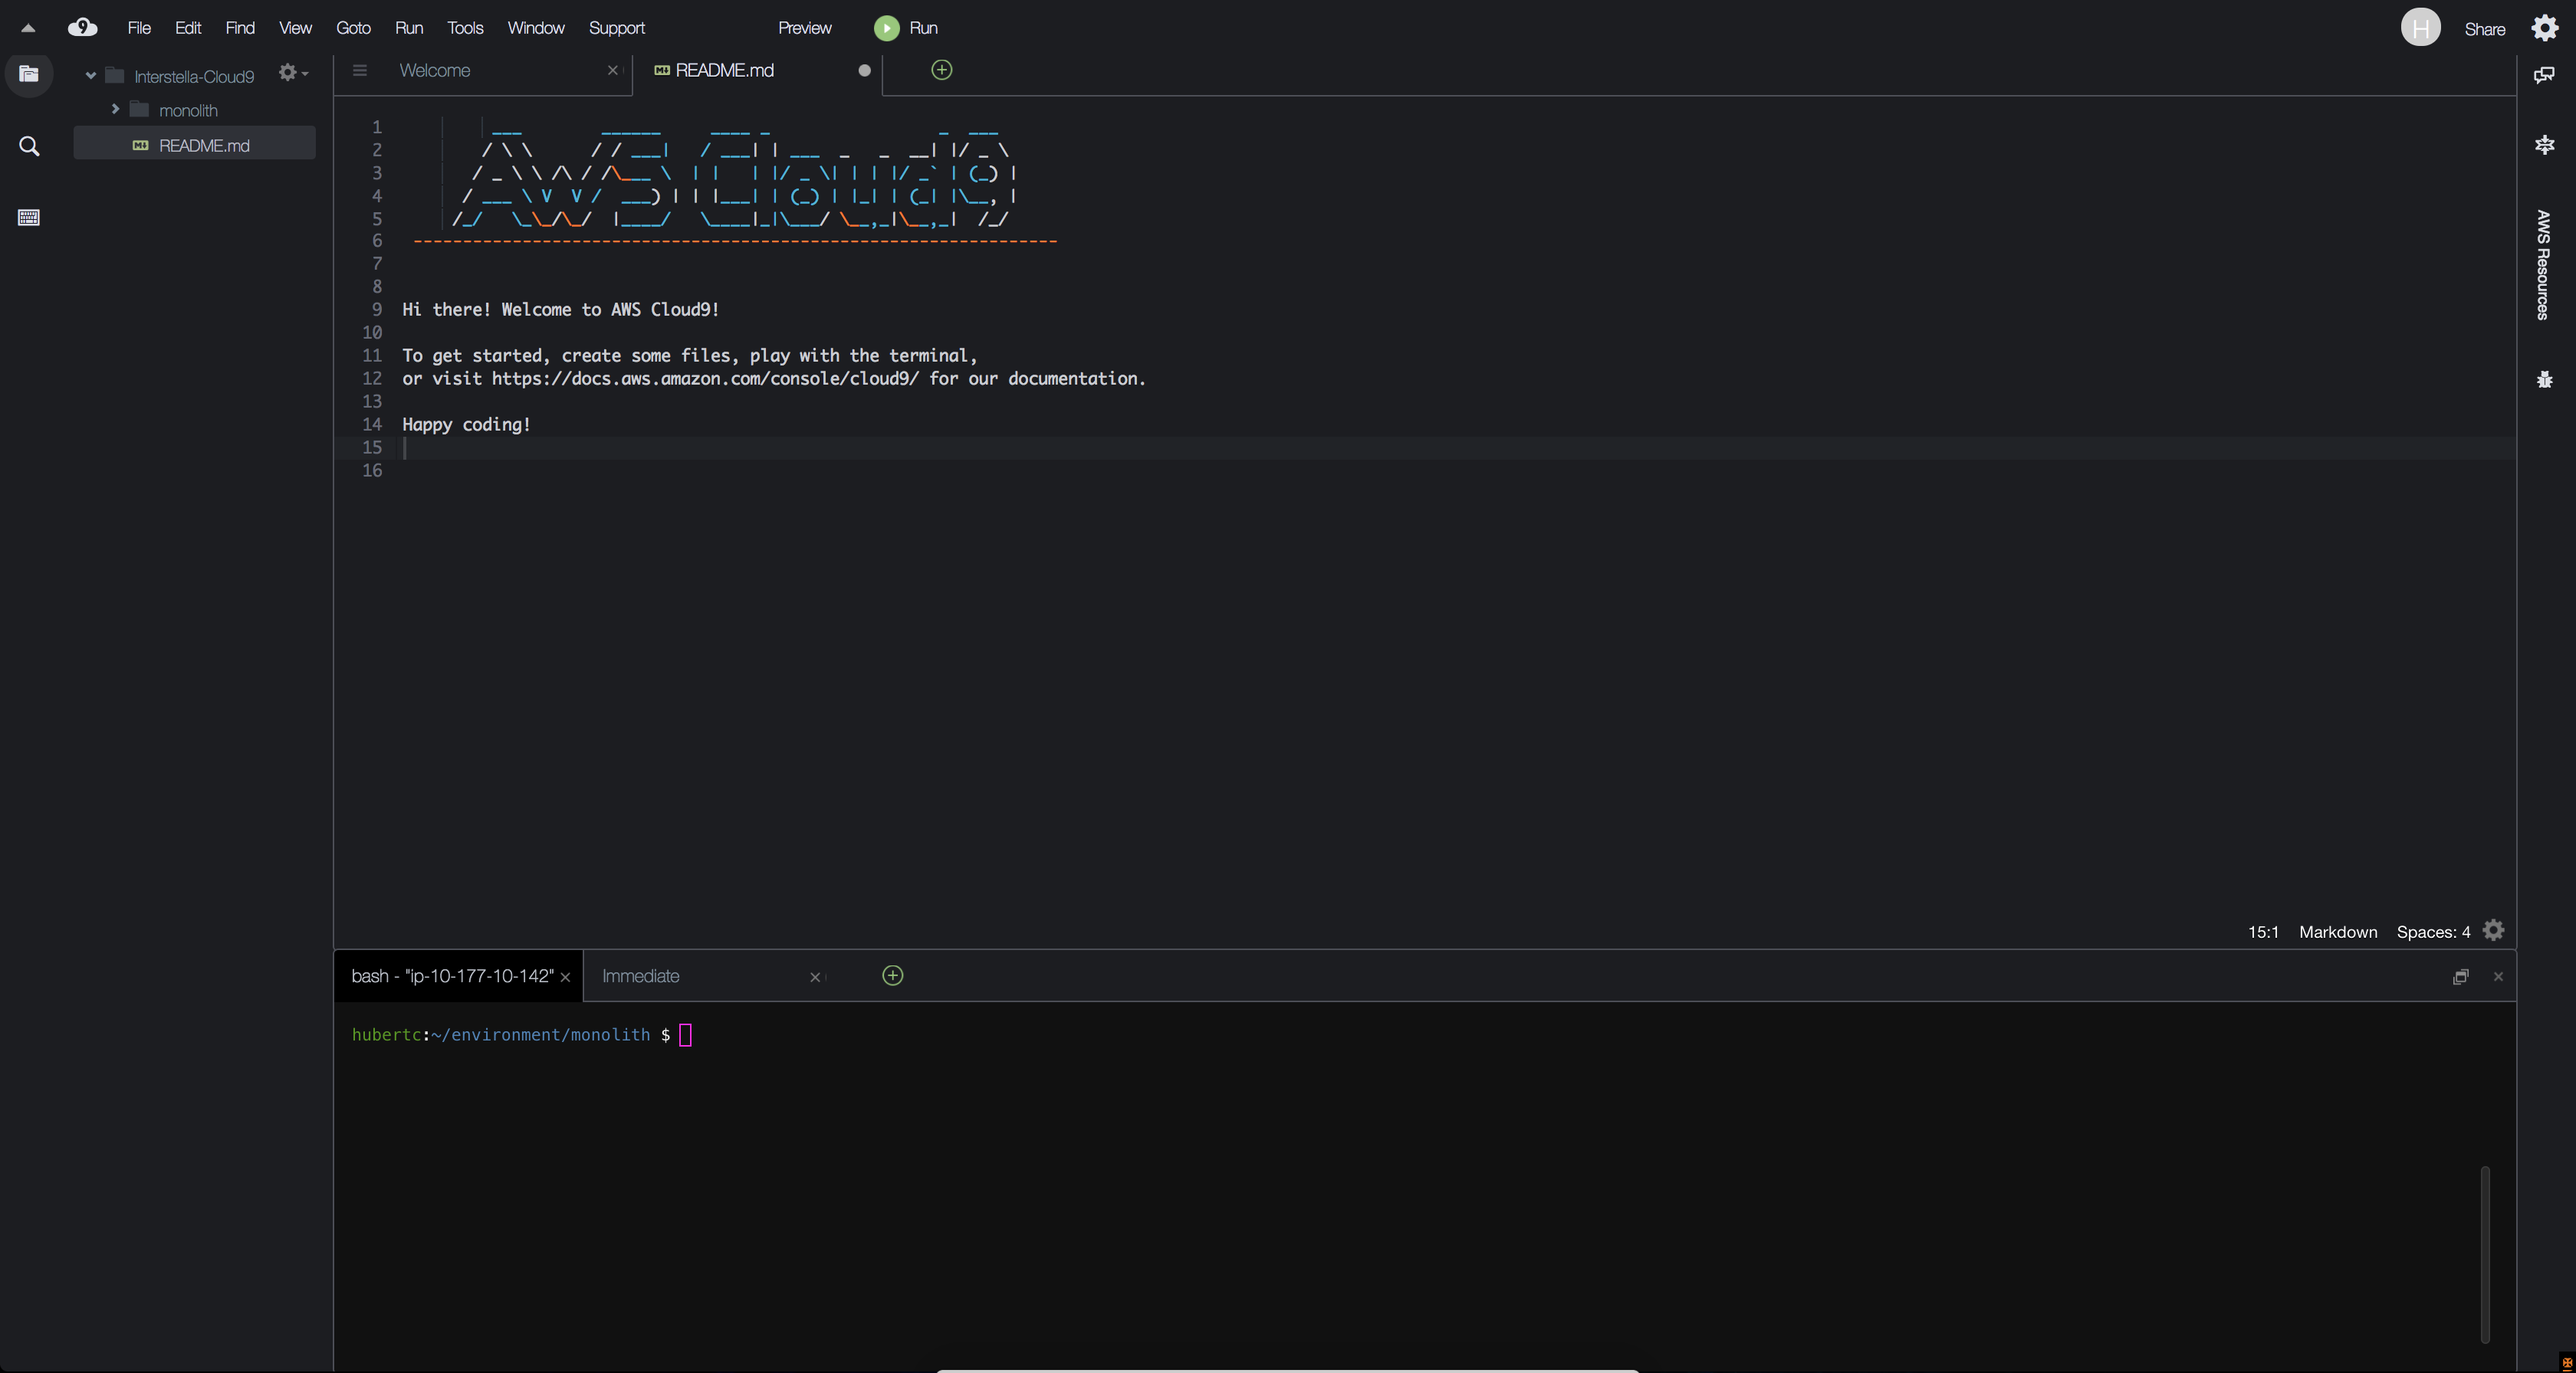
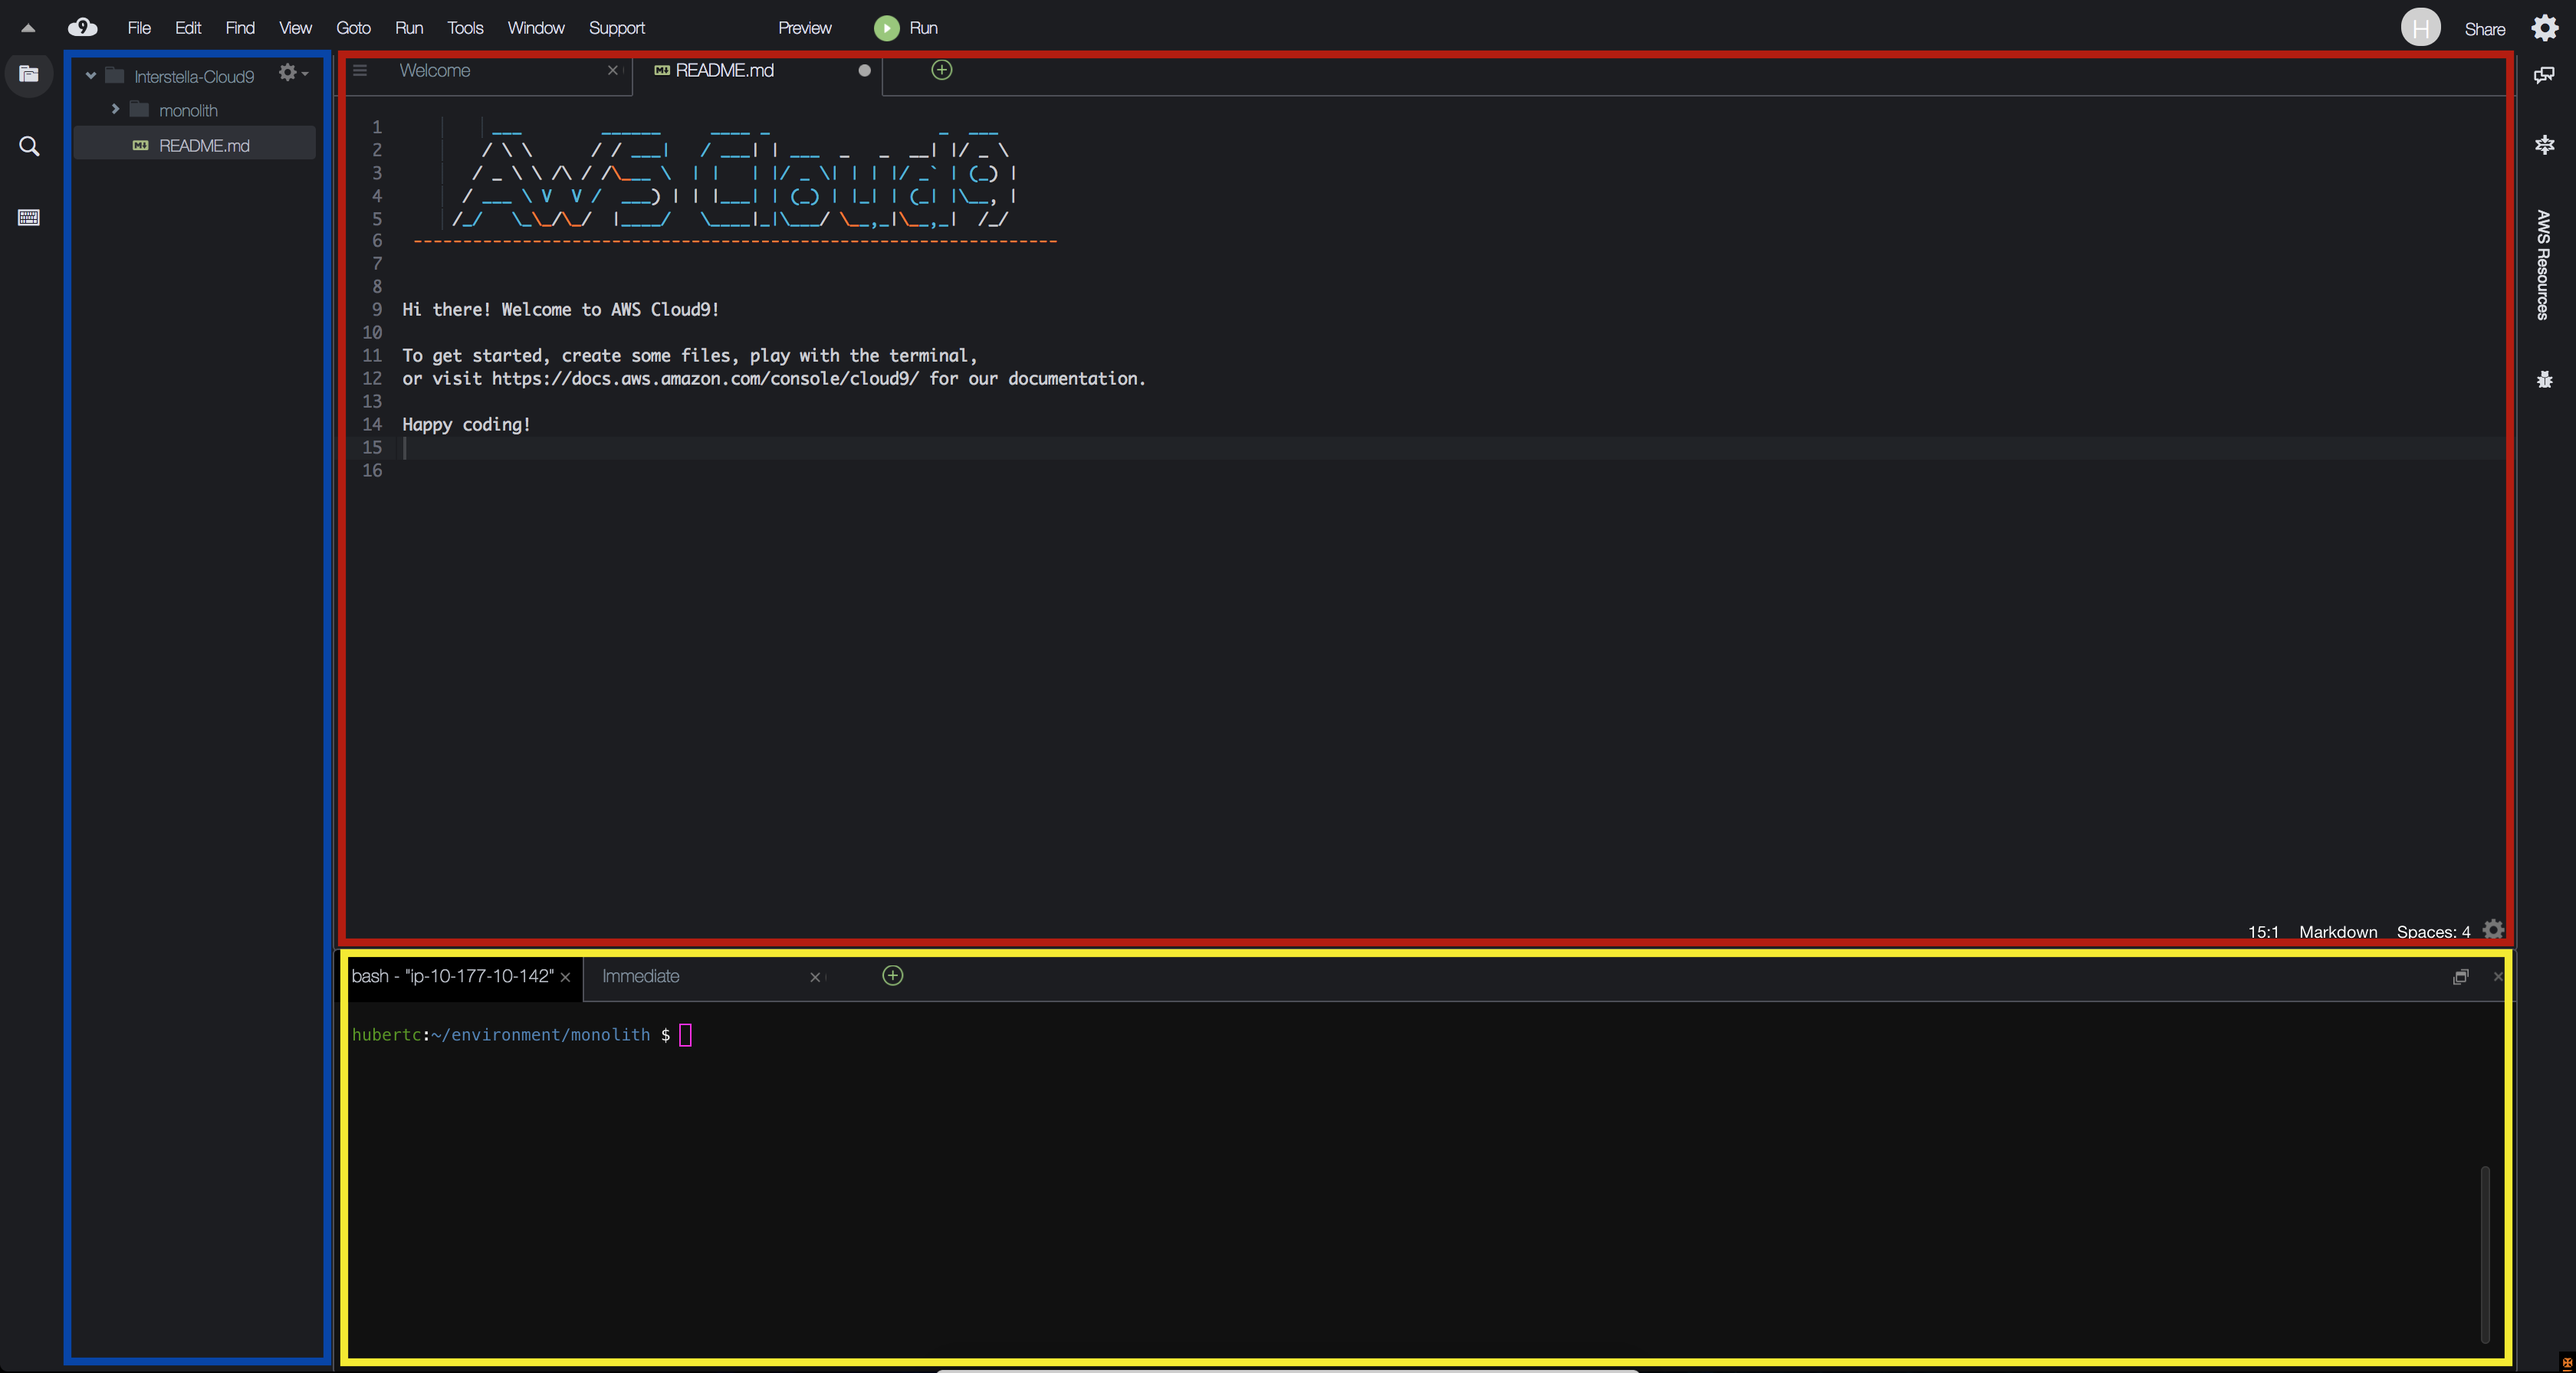
updating images for c9

Changed region(s): [[0.0, 0.0312, 1.0, 1.0]]

diff --git a/workshop-microservices/readme.md b/workshop-microservices/readme.md
@@ -155,13 +155,11 @@ Go to the Cloud9 Dashboard in the Management Console and find your environment. 
 
 2\. Familiarize yourself with the Cloud9 Environment. 
 
-On the left pane, you'll see a folder navigation structure where you'll see some files that will be downloaded later. In the middle pane, any documents you open will show up here. Double click on README.md in the left folder pane and edit the file a bit in the middle. Then save it by clicking **File** and **Save**.
+On the left pane (Blue), you'll see a folder navigation structure where you'll see some files that will be downloaded later. In the middle (Red) pane, any documents you open will show up here. Double click on README.md in the left folder pane and edit the file a bit in the middle. Then save it by clicking **File** and **Save**.
 
 ![Cloud9 Editing](images/01-c9-2.png)
 
-On the bottom, you will see a shell. For the remainder of the lab, use this shell to enter all commands.
-
-![Cloud9 Shell](images/01-c9-3.png)
+On the bottom, you will see a shell (Yellow). For the remainder of the lab, use this shell to enter all commands.
 
 2\. Once logged into the instance, download the logistics application source, requirements file, and a draft Dockerfile from Interstella HQ.
 
